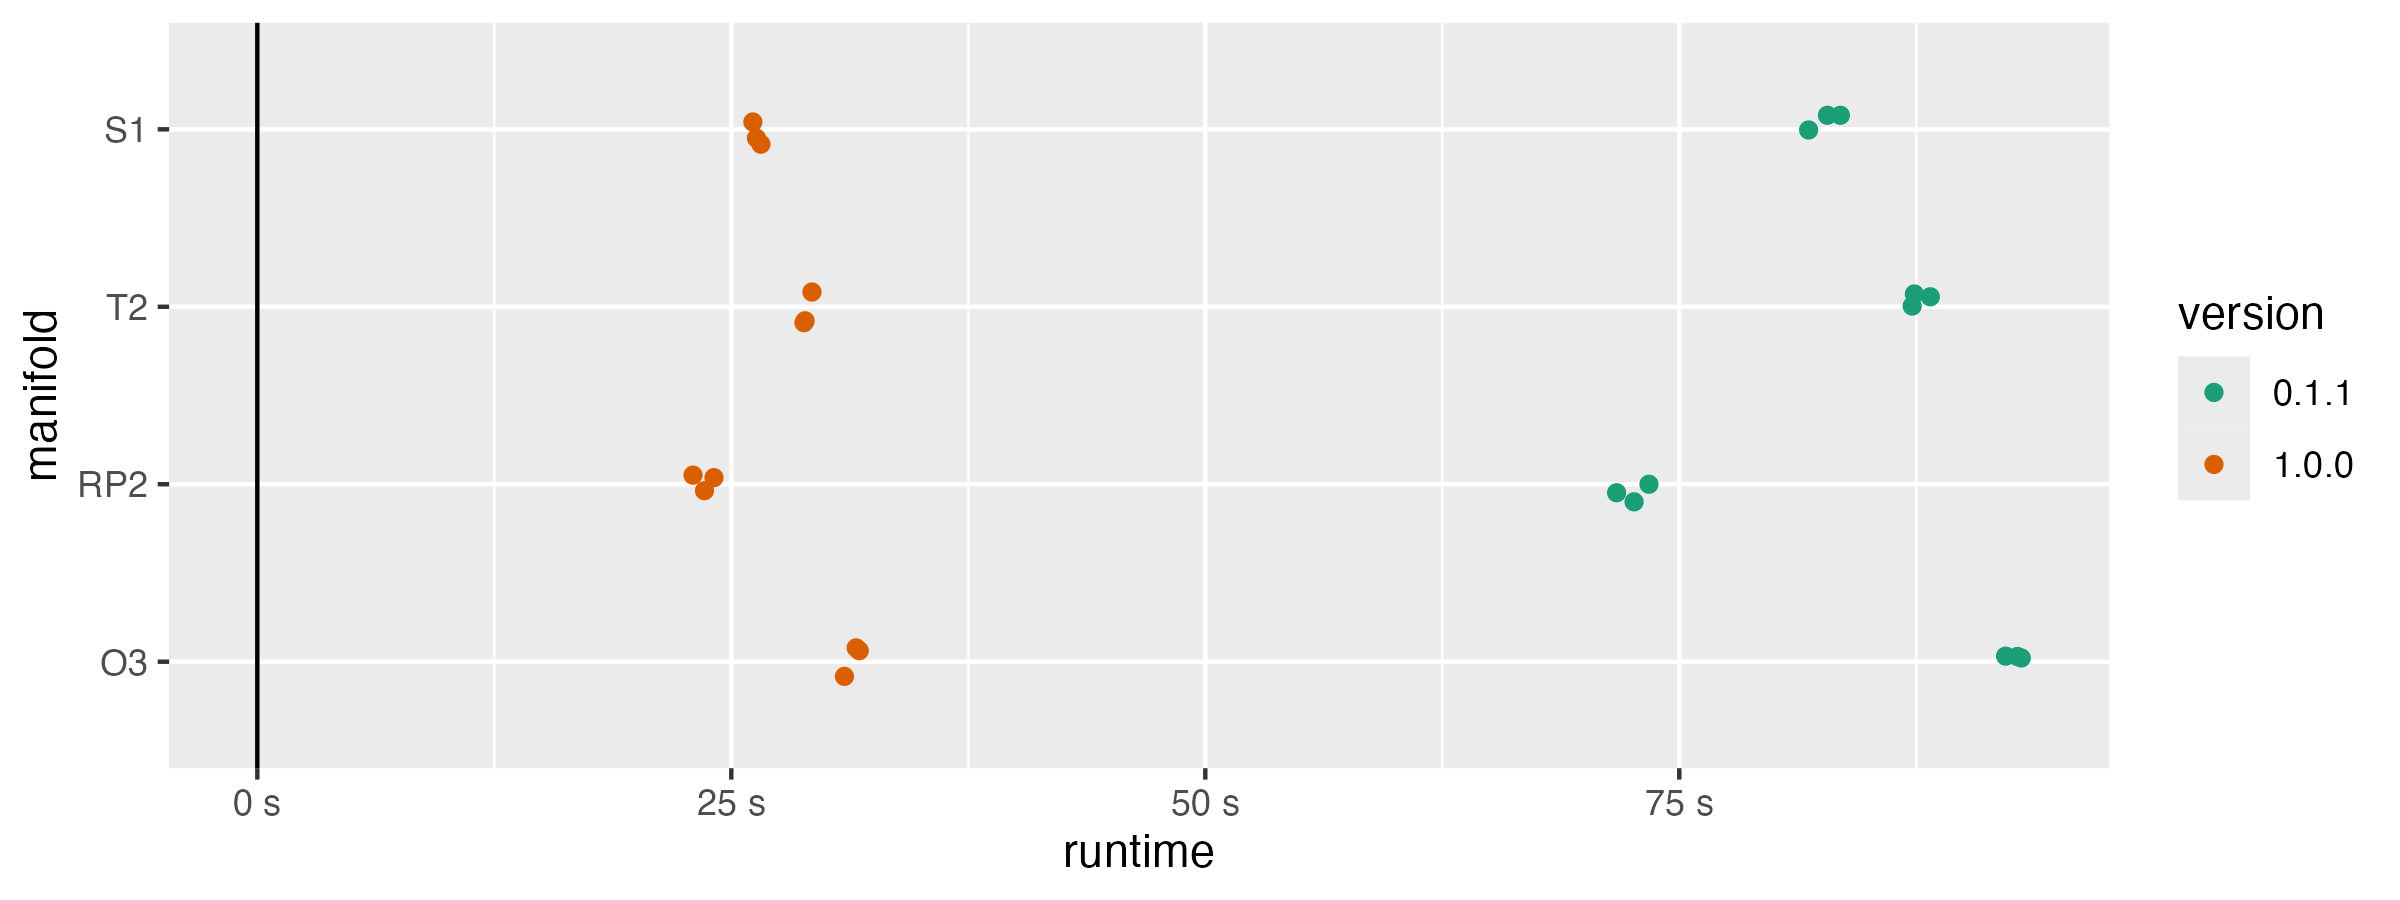
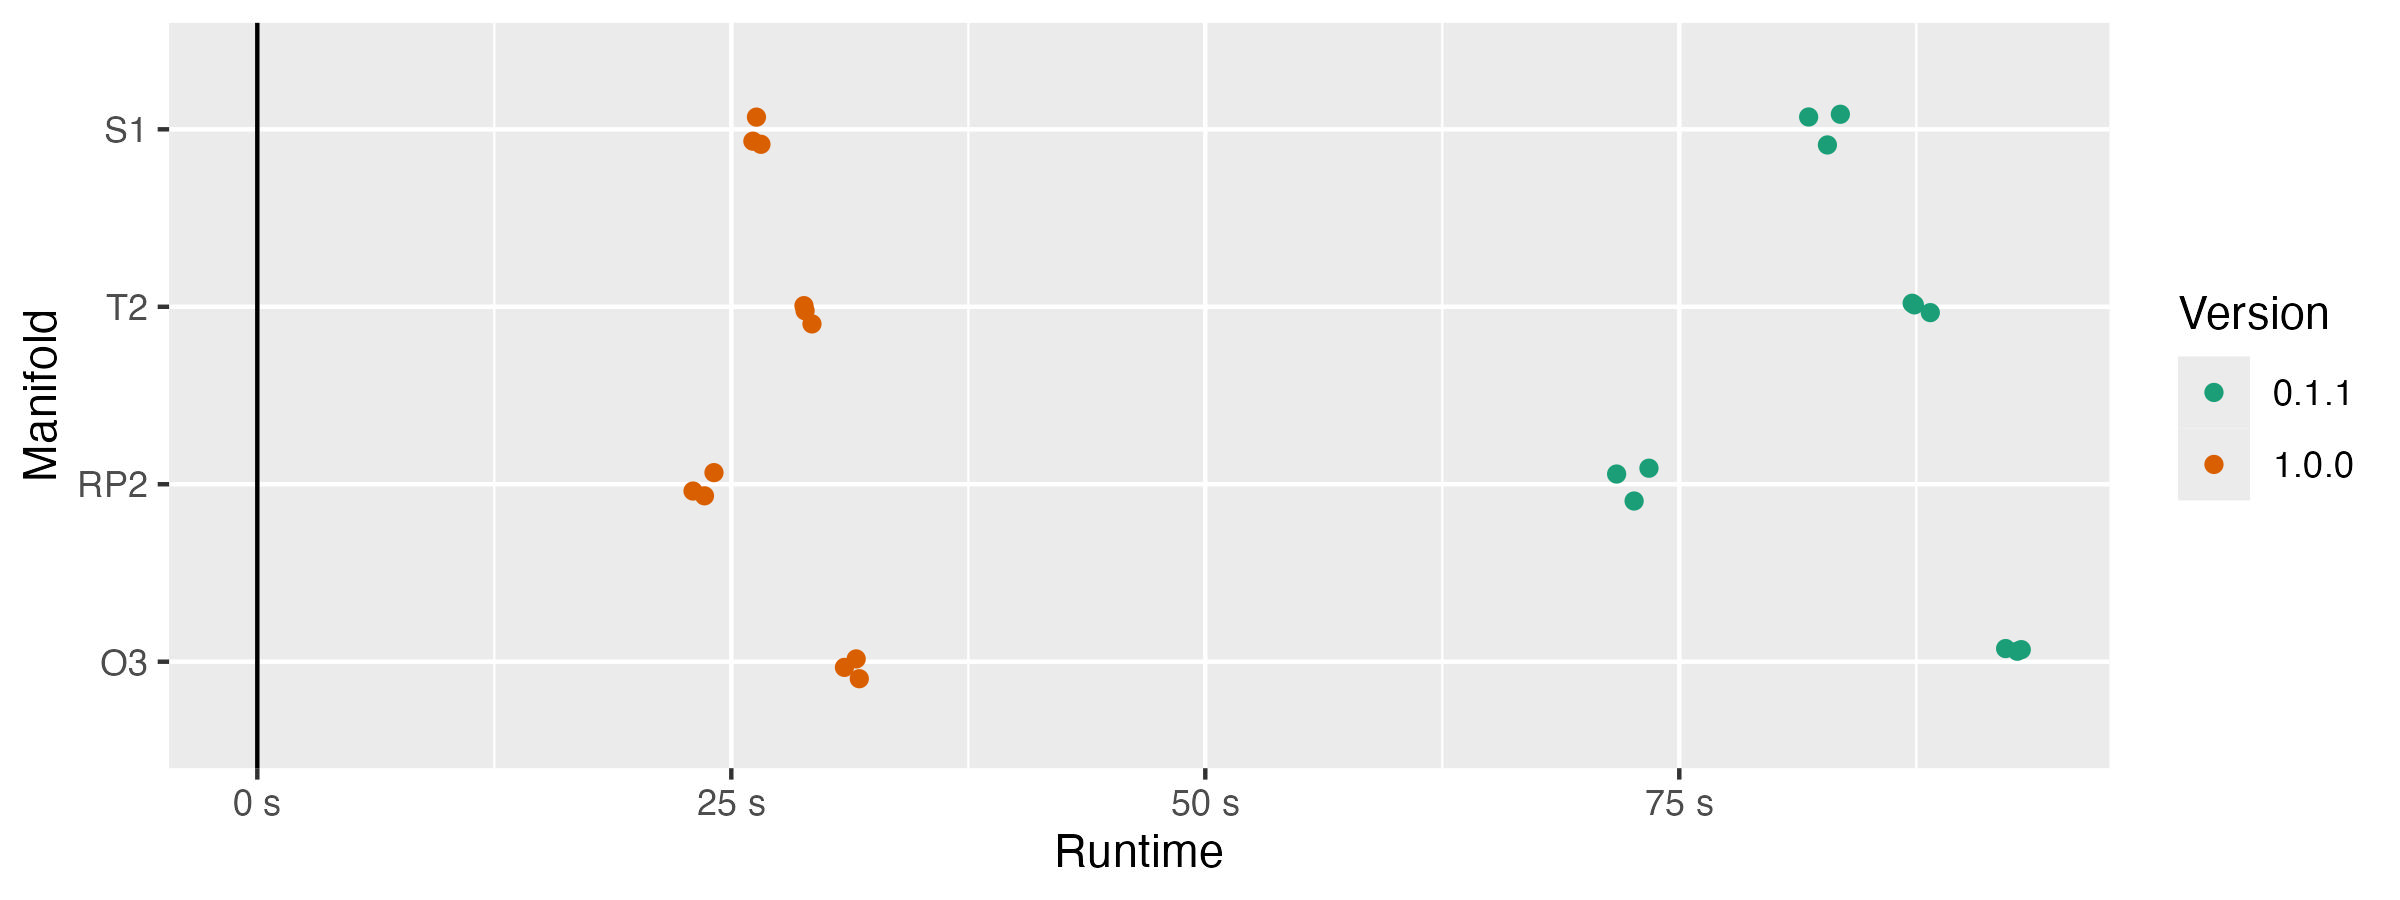
revise per aymeric's feedback

diff --git a/sandbox/ripserr-blog.html b/sandbox/ripserr-blog.html
@@ -159,7 +159,7 @@ window.Quarto = {
 <p>Concluding our sponsored work is an upgrade to the R package {ripserr}. This is a lightweight wrapper around Ulrich Bauer’s <code>Ripser</code> library <span class="citation" data-cites="Bauer2021">(<a href="#ref-Bauer2021" role="doc-biblioref">Bauer 2021</a>)</span>, still perhaps the fastest implementation of PH using the Vietoris–Rips (VR) filtration. {ripserr} uses {Rcpp} to bind this C++ engine, as well as the cubical PH engine <code>Cubical Ripser</code> employing the same design principles <span class="citation" data-cites="Kaji2020">(<a href="#ref-Kaji2020" role="doc-biblioref">Kaji, Sudo, and Ahara 2020</a>)</span>, to R.</p>
 <section id="past" class="level2">
 <h2 class="anchored" data-anchor-id="past">Past</h2>
-<p><code>Ripser</code> was first first released in 2016, but it went through several upgrades before being described in the celebrated journal article <span class="citation" data-cites="Bauer2021">(<a href="#ref-Bauer2021" role="doc-biblioref">Bauer 2021</a>)</span>. Bauer itemizes four tactics used to reduce computation time:</p>
+<p><code>Ripser</code> was first released in 2016, but it went through several upgrades before being described in the celebrated journal article <span class="citation" data-cites="Bauer2021">(<a href="#ref-Bauer2021" role="doc-biblioref">Bauer 2021</a>)</span>. Bauer itemizes four tactics used to reduce computation time:</p>
 <ol type="1">
 <li>Leverage the nilpotency of the boundary operator (<span class="math inline">\(\partial^2 = 0\)</span>, key to the definition of homology) to clear trivial cycles from the matrix reduction procedure <span class="citation" data-cites="Chen2011">(<a href="#ref-Chen2011" role="doc-biblioref">Chen and Kerber 2011</a>)</span>.</li>
 <li>Use the clearing step of (1) in the calculation of persistent <em>cohomology</em> rather than homology <span class="citation" data-cites="deSilva2011">(<a href="#ref-deSilva2011" role="doc-biblioref">de Silva, Morozov, and Vejdemo-Johansson 2011</a>)</span>, which turns out to be much faster especially for low homological degree (the vast majority of practical use cases).</li>
@@ -170,7 +170,7 @@ window.Quarto = {
 </section>
 <section id="present" class="level2">
 <h2 class="anchored" data-anchor-id="present">Present</h2>
-<p>The upgrade to {ripserr} v1.0.0 was straightforward:<a href="#fn1" class="footnote-ref" id="fnref1" role="doc-noteref"><sup>1</sup></a> We plopped the current “main” version of <code>Ripser</code> into where the previous version had been, reconfiguring the {Rcpp} infrastructure along the way.<a href="#fn2" class="footnote-ref" id="fnref2" role="doc-noteref"><sup>2</sup></a> This brought two immediate improvements: a modest increase in efficiency, and proper encodings of deaths at infinity.</p>
+<p>The upgrade to {ripserr} v1.0.0<a href="#fn1" class="footnote-ref" id="fnref1" role="doc-noteref"><sup>1</sup></a> was straightforward, though not at all trivial: Essentially, we plopped the current “main” version of <code>Ripser</code> into where the previous version had been, reconfiguring the {Rcpp} infrastructure along the way.<a href="#fn2" class="footnote-ref" id="fnref2" role="doc-noteref"><sup>2</sup></a> This brought two immediate improvements: a modest increase in efficiency, and proper encodings of deaths at infinity, and we illustrate these below.</p>
 <div class="cell">
 <div class="code-copy-outer-scaffold"><div class="sourceCode cell-code" id="cb1"><pre class="sourceCode r code-with-copy"><code class="sourceCode r"><span id="cb1-1"><a href="#cb1-1" aria-hidden="true" tabindex="-1"></a><span class="fu">library</span>(ripserr)</span>
 <span id="cb1-2"><a href="#cb1-2" aria-hidden="true" tabindex="-1"></a><span class="fu">packageVersion</span>(<span class="st">"ripserr"</span>)</span></code></pre></div><button title="Copy to Clipboard" class="code-copy-button"><i class="bi"></i></button></div>
@@ -178,14 +178,15 @@ window.Quarto = {
 <pre><code>[1] '1.0.0'</code></pre>
 </div>
 </div>
-<p>Below is a comparison of {ripserr} runtimes to compute degree-2 persistent homology on uniform samples of size 840 from 4 embedded manifolds: the circle <span class="math inline">\(\mathbb{S}^1\)</span>, the torus <span class="math inline">\(\mathbb{T}^2\)</span>, the real projective plane <span class="math inline">\(\mathbb{RP}^2\)</span>, and the orthogonal matrix group <span class="math inline">\(O(3)\)</span>. This is not an exhaustive comparison—many real-world data sets will be much larger and higher-dimensional—but it illustrates a practical improvement of the upgrade: The efficiency gains are substantial, reducing runtimes by about 2/3 across all shapes. The v0.1.1 runtimes might even be advantaged by having used the implementation on the <code>short</code> branch of the <code>Ripser</code> repo; we changed to the main library to clear the way for several future upgrades described below.</p>
+<p>It also required some deeper engagement with the source: to ensure that outputs were properly collected and reformatted for return to R, to expose additional parameters between R and C++, and so on. In several small ways, we tried to make this upgrade more faithful to the core tool and more familiar to users with some TDA background.</p>
+<p><a href="#fig-benchmark" class="quarto-xref">Figure&nbsp;1</a> compares the runtimes of two versions of {ripserr} to compute degree-2 persistence on samples from 4 manifolds: the circle <span class="math inline">\(\mathbb{S}^1\)</span>, the torus <span class="math inline">\(\mathbb{T}^2\)</span>, the real projective plane <span class="math inline">\(\mathbb{RP}^2\)</span>, and the orthogonal matrix group <span class="math inline">\(O(3)\)</span>. (The first three were generated using {tdaunif}; the fourth was borrowed from Ripser.) This is not an exhaustive comparison—many real-world data sets will be much larger and higher-dimensional—but it illustrates a practical improvement of the upgrade: The efficiency gains are substantial, reducing runtimes by about 2/3 across all shapes. The v0.1.1 runtimes might even be advantaged by having used the implementation on the <code>short</code> branch of the <code>Ripser</code> repo; we changed to the main library to clear the way for several future upgrades described below.</p>
 <div id="fig-benchmark" class="quarto-float quarto-figure quarto-figure-center anchored">
 <figure class="quarto-float quarto-float-fig figure">
 <div aria-describedby="fig-benchmark-caption-0ceaefa1-69ba-4598-a22c-09a6ac19f8ca">
 <img src="benchmark-plot.jpg" class="img-fluid figure-img">
 </div>
-<figcaption class="quarto-float-caption-bottom quarto-float-caption quarto-float-fig quarto-uncaptioned" id="fig-benchmark-caption-0ceaefa1-69ba-4598-a22c-09a6ac19f8ca">
-Figure&nbsp;1
+<figcaption class="quarto-float-caption-bottom quarto-float-caption quarto-float-fig" id="fig-benchmark-caption-0ceaefa1-69ba-4598-a22c-09a6ac19f8ca">
+Figure&nbsp;1: Runtimes (in seconds) of 3 calculations each of 2-dimensional Vietoris–Rips persistent homology of samples of size 840 from 4 embedded manifolds.
 </figcaption>
 </figure>
 </div>
